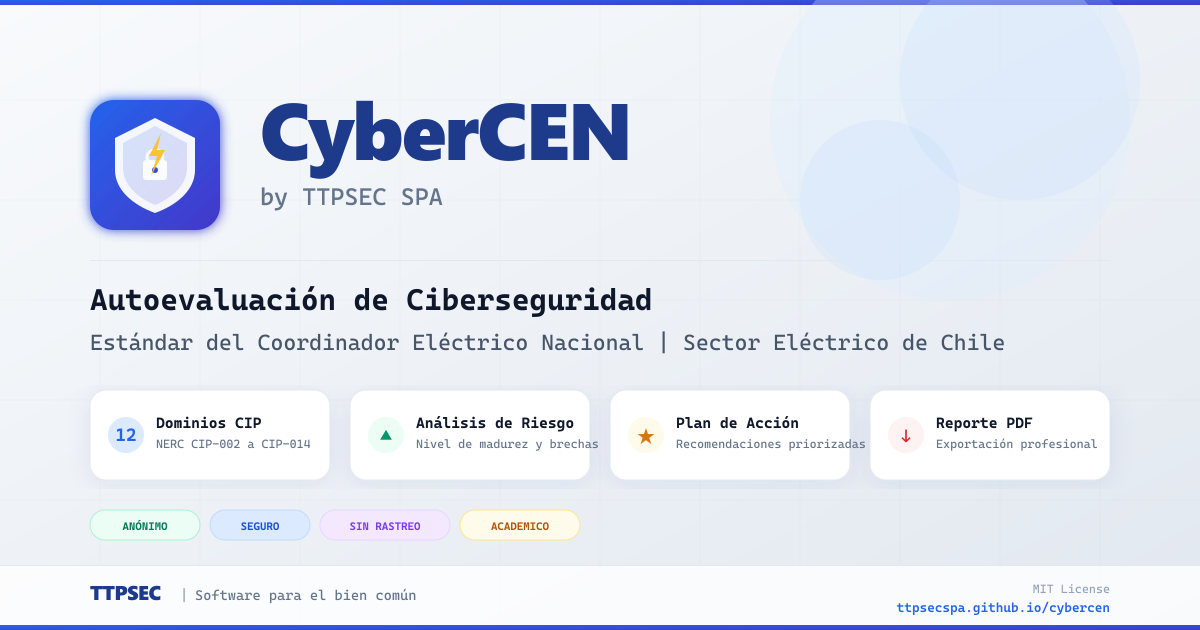
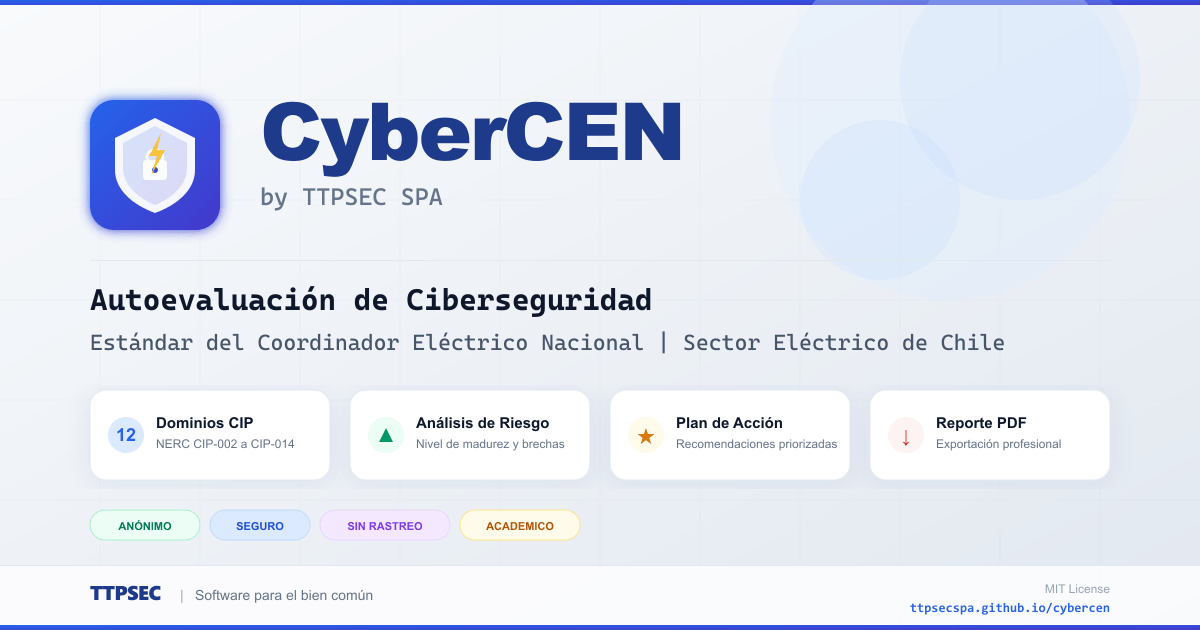
fix: improve OG images quality and mobile responsiveness
Re-rendered PNG images with Arial fonts at 300dpi for crisp text.
Mobile improvements: tighter spacing, smaller text, 3-col feature
grid with short labels, bottom-sheet config modal, responsive
disclaimer. Bump v2.2.

diff --git a/app/page.tsx b/app/page.tsx
@@ -38,9 +38,9 @@ function LandingPage() {
   const [showConfig, setShowConfig] = useState(false);
 
   return (
-    <div className="flex flex-col items-center min-h-[calc(100vh-4rem)] px-4 py-0">
+    <div className="flex flex-col items-center min-h-[calc(100vh-4rem)] px-3 sm:px-4 py-0">
       {/* Cover / Portada */}
-      <div className="w-full max-w-4xl mt-6 mb-8 rounded-2xl overflow-hidden shadow-xl shadow-blue-200/50 border border-slate-200">
+      <div className="w-full max-w-4xl mt-4 sm:mt-6 mb-5 sm:mb-8 rounded-xl sm:rounded-2xl overflow-hidden shadow-lg sm:shadow-xl shadow-blue-200/50 border border-slate-200">
         <Image
           src="/og-image.png"
           alt="CyberCEN — Autoevaluación de Ciberseguridad para el Sector Eléctrico"
@@ -52,25 +52,25 @@ function LandingPage() {
       </div>
 
       {/* Hero text */}
-      <div className="w-full max-w-3xl text-center mb-8">
-        <div className="flex items-center justify-center gap-4 mb-4">
+      <div className="w-full max-w-3xl text-center mb-5 sm:mb-8">
+        <div className="flex items-center justify-center gap-3 sm:gap-4 mb-3 sm:mb-4">
           <Image
             src="/logo-ttpsec.png"
             alt="TTPSEC"
             width={64}
             height={64}
-            className="h-16 w-auto"
+            className="h-10 sm:h-16 w-auto"
           />
-          <h1 className="text-4xl md:text-5xl font-black text-slate-900 tracking-tight leading-tight">
+          <h1 className="text-3xl sm:text-4xl md:text-5xl font-black text-slate-900 tracking-tight leading-tight">
             <span className="bg-gradient-to-r from-blue-600 to-indigo-500 bg-clip-text text-transparent">
               CyberCEN
             </span>
           </h1>
         </div>
-        <p className="text-lg md:text-xl font-bold text-slate-700">
+        <p className="text-base sm:text-lg md:text-xl font-bold text-slate-700">
           Autoevaluación del Estándar de Ciberseguridad
         </p>
-        <p className="mt-2 text-sm text-slate-500 max-w-xl mx-auto leading-relaxed">
+        <p className="mt-1.5 sm:mt-2 text-xs sm:text-sm text-slate-500 max-w-xl mx-auto leading-relaxed">
           Herramienta gratuita para evaluar el cumplimiento del Estándar del
           Coordinador Eléctrico Nacional, basado en NERC CIP.
           12 dominios, 120 controles, análisis de riesgo y plan de acción.
@@ -78,12 +78,12 @@ function LandingPage() {
       </div>
 
       {/* CTA Buttons */}
-      <div className="flex flex-col sm:flex-row items-center gap-4 mb-12 w-full max-w-lg">
+      <div className="flex flex-col sm:flex-row items-center gap-3 sm:gap-4 mb-8 sm:mb-12 w-full max-w-lg">
         <button
           type="button"
           onClick={() => setShowConfig(true)}
           className={cn(
-            "flex-1 w-full sm:w-auto flex items-center justify-center gap-2 rounded-xl px-8 py-4 text-base font-bold text-white cursor-pointer",
+            "flex-1 w-full sm:w-auto flex items-center justify-center gap-2 rounded-xl px-6 sm:px-8 py-3.5 sm:py-4 text-sm sm:text-base font-bold text-white cursor-pointer",
             "bg-blue-600 hover:bg-blue-700 shadow-lg shadow-blue-200",
             "hover:-translate-y-0.5 transition-all duration-200"
           )}
@@ -98,50 +98,54 @@ function LandingPage() {
       {showConfig && <ConfigModal onClose={() => setShowConfig(false)} />}
 
       {/* Features */}
-      <div className="grid grid-cols-1 sm:grid-cols-3 gap-4 w-full max-w-3xl">
+      <div className="grid grid-cols-3 gap-2 sm:gap-4 w-full max-w-3xl">
         {[
           {
             icon: ListChecks,
             title: "12 Dominios CIP",
-            desc: "Evaluación integral basada en estándares NERC CIP-002 a CIP-014",
+            desc: "NERC CIP-002 a CIP-014",
+            descLong: "Evaluación integral basada en estándares NERC CIP-002 a CIP-014",
           },
           {
             icon: AlertTriangle,
             title: "Análisis de Brechas",
-            desc: "Identifica vulnerabilidades y prioriza remediación por riesgo",
+            desc: "Riesgo y remediación",
+            descLong: "Identifica vulnerabilidades y prioriza remediación por riesgo",
           },
           {
             icon: CheckCircle2,
             title: "Plan de Acción",
-            desc: "Recomendaciones concretas con plazos y recursos estimados",
+            desc: "Plazos y recursos",
+            descLong: "Recomendaciones concretas con plazos y recursos estimados",
           },
         ].map((feat) => (
           <div
             key={feat.title}
-            className="flex flex-col items-center text-center rounded-2xl border border-slate-200 bg-white p-6 shadow-sm hover:shadow-md hover:border-blue-300 hover:-translate-y-0.5 transition-all"
+            className="flex flex-col items-center text-center rounded-xl sm:rounded-2xl border border-slate-200 bg-white p-3 sm:p-6 shadow-sm hover:shadow-md hover:border-blue-300 hover:-translate-y-0.5 transition-all"
           >
-            <feat.icon className="w-6 h-6 text-blue-500 mb-3" />
-            <span className="text-sm font-bold text-slate-900">
+            <feat.icon className="w-5 h-5 sm:w-6 sm:h-6 text-blue-500 mb-1.5 sm:mb-3" />
+            <span className="text-[11px] sm:text-sm font-bold text-slate-900 leading-tight">
               {feat.title}
             </span>
-            <span className="text-xs text-slate-500 leading-relaxed mt-1.5">{feat.desc}</span>
+            <span className="text-[10px] sm:text-xs text-slate-500 leading-relaxed mt-1 hidden sm:block">{feat.descLong}</span>
+            <span className="text-[10px] text-slate-500 leading-tight mt-1 sm:hidden">{feat.desc}</span>
           </div>
         ))}
       </div>
 
       {/* Big Disclaimer Banner */}
-      <div className="w-full max-w-3xl mt-10 rounded-2xl border-2 border-amber-300 bg-gradient-to-br from-amber-50 to-orange-50 p-6 shadow-lg shadow-amber-100/50">
-        <div className="flex items-center justify-center gap-3 mb-4">
-          <AlertTriangle className="w-7 h-7 text-amber-600" />
-          <h3 className="text-lg font-extrabold text-amber-900 uppercase tracking-wider">
+      <div className="w-full max-w-3xl mt-6 sm:mt-10 rounded-xl sm:rounded-2xl border-2 border-amber-300 bg-gradient-to-br from-amber-50 to-orange-50 p-4 sm:p-6 shadow-lg shadow-amber-100/50">
+        <div className="flex items-center justify-center gap-2 sm:gap-3 mb-3 sm:mb-4">
+          <AlertTriangle className="w-5 h-5 sm:w-7 sm:h-7 text-amber-600" />
+          <h3 className="text-sm sm:text-lg font-extrabold text-amber-900 uppercase tracking-wider">
             Aviso Importante
           </h3>
-          <AlertTriangle className="w-7 h-7 text-amber-600" />
+          <AlertTriangle className="w-5 h-5 sm:w-7 sm:h-7 text-amber-600" />
         </div>
 
-        <div className="rounded-xl bg-white/70 border border-amber-200 p-5 mb-4">
-          <div className="flex items-start gap-3 mb-3">
-            <GraduationCap className="w-6 h-6 text-amber-600 mt-0.5 shrink-0" />
+        <div className="rounded-lg sm:rounded-xl bg-white/70 border border-amber-200 p-3 sm:p-5 mb-3 sm:mb-4">
+          <div className="flex items-start gap-2 sm:gap-3 mb-2.5 sm:mb-3">
+            <GraduationCap className="w-5 h-5 sm:w-6 sm:h-6 text-amber-600 mt-0.5 shrink-0" />
             <div>
               <p className="text-sm font-bold text-slate-800">
                 Plataforma sin fines de lucro, con fines exclusivamente académicos y educativos.
@@ -152,8 +156,8 @@ function LandingPage() {
             </div>
           </div>
 
-          <div className="flex items-start gap-3 mb-3">
-            <Ban className="w-6 h-6 text-red-500 mt-0.5 shrink-0" />
+          <div className="flex items-start gap-2 sm:gap-3 mb-2.5 sm:mb-3">
+            <Ban className="w-5 h-5 sm:w-6 sm:h-6 text-red-500 mt-0.5 shrink-0" />
             <div>
               <p className="text-sm font-bold text-slate-800">
                 No afiliada al Coordinador Eléctrico Nacional (CEN).
@@ -164,8 +168,8 @@ function LandingPage() {
             </div>
           </div>
 
-          <div className="flex items-start gap-3">
-            <ShieldCheck className="w-6 h-6 text-green-500 mt-0.5 shrink-0" />
+          <div className="flex items-start gap-2 sm:gap-3">
+            <ShieldCheck className="w-5 h-5 sm:w-6 sm:h-6 text-green-500 mt-0.5 shrink-0" />
             <div>
               <p className="text-sm font-bold text-slate-800">
                 No reemplaza una auditoría formal de ciberseguridad.
@@ -307,7 +311,7 @@ function DemoButton() {
       type="button"
       onClick={handleDemo}
       className={cn(
-        "flex-1 w-full sm:w-auto flex items-center justify-center gap-2 rounded-xl px-8 py-4 text-base font-bold cursor-pointer",
+        "flex-1 w-full sm:w-auto flex items-center justify-center gap-2 rounded-xl px-6 sm:px-8 py-3.5 sm:py-4 text-sm sm:text-base font-bold cursor-pointer",
         "bg-white border-2 border-slate-300 text-slate-700",
         "hover:border-blue-400 hover:text-blue-700 hover:bg-blue-50",
         "hover:-translate-y-0.5 transition-all duration-200"
@@ -342,13 +346,13 @@ function ConfigModal({ onClose }: { onClose: () => void }) {
   };
 
   return (
-    <div className="fixed inset-0 z-50 flex items-center justify-center bg-black/40 backdrop-blur-sm px-4" onClick={onClose}>
+    <div className="fixed inset-0 z-50 flex items-end sm:items-center justify-center bg-black/40 backdrop-blur-sm px-0 sm:px-4" onClick={onClose}>
       <div
-        className="w-full max-w-lg rounded-2xl border border-slate-200 bg-white shadow-2xl p-6 animate-in fade-in zoom-in-95"
+        className="w-full sm:max-w-lg rounded-t-2xl sm:rounded-2xl border border-slate-200 bg-white shadow-2xl p-5 sm:p-6 max-h-[90vh] overflow-y-auto"
         onClick={(e) => e.stopPropagation()}
       >
-        <div className="flex items-center justify-between mb-6">
-          <h2 className="text-xl font-extrabold text-slate-900">
+        <div className="flex items-center justify-between mb-5 sm:mb-6">
+          <h2 className="text-lg sm:text-xl font-extrabold text-slate-900">
             Configurar Evaluación
           </h2>
           <button

diff --git a/lib/version.ts b/lib/version.ts
@@ -1,2 +1,2 @@
-export const APP_VERSION = "2.1";
+export const APP_VERSION = "2.2";
 export const APP_BUILD_DATE = "2026-03-30";
